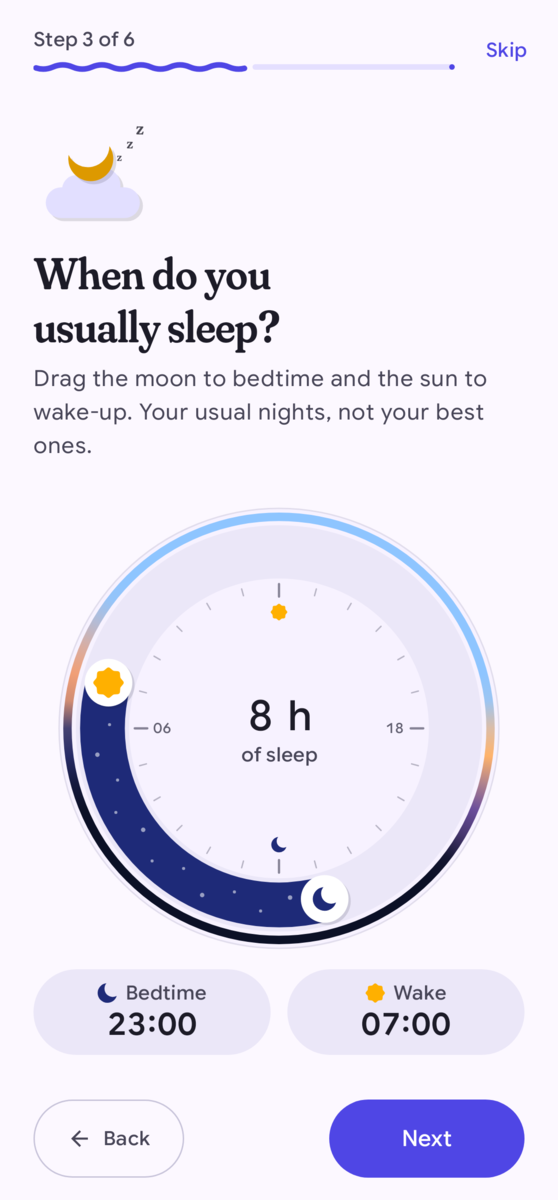
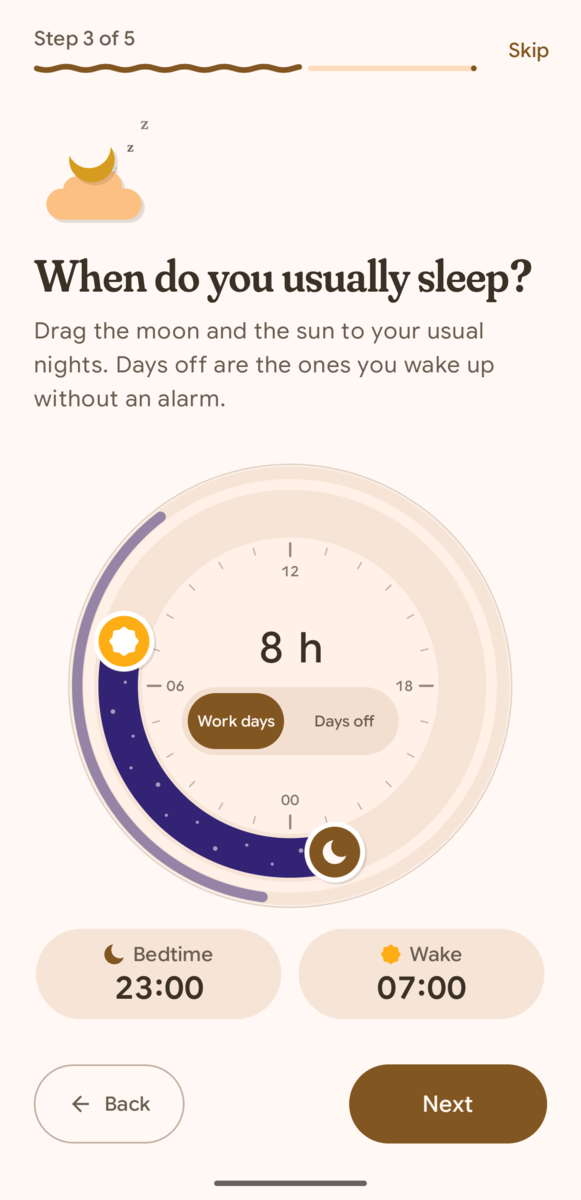
Device-captured user-guide images; toggle labels never wrap; exact timing row scrolls into view

diff --git a/feature/onboarding/src/main/kotlin/dev/sebastiano/clockblocker/opus/feature/onboarding/OnboardingSteps.kt b/feature/onboarding/src/main/kotlin/dev/sebastiano/clockblocker/opus/feature/onboarding/OnboardingSteps.kt
@@ -2,6 +2,7 @@ package dev.sebastiano.clockblocker.opus.feature.onboarding
 
 import androidx.compose.animation.AnimatedContent
 import androidx.compose.animation.AnimatedVisibility
+import androidx.compose.animation.EnterExitState
 import androidx.compose.animation.expandVertically
 import androidx.compose.animation.fadeIn
 import androidx.compose.animation.fadeOut
@@ -533,6 +534,10 @@ private fun RemindersControls(state: OnboardingUiState, actions: OnboardingActio
             enter = expandVertically(motion.containerSpatial()) + fadeIn(motion.containerSpatial()),
             exit = shrinkVertically(motion.containerSpatial()) + fadeOut(motion.containerSpatial()),
         ) {
+            // The row appears under the card, often below the fold: bring it into view once it has grown in.
+            val exactRow = remember { BringIntoViewRequester() }
+            val grown = transition.currentState == EnterExitState.Visible && !transition.isRunning
+            LaunchedEffect(grown) { if (grown) exactRow.bringIntoView() }
             PermissionRow(
                 title = stringResource(R.string.reminders_exact),
                 description = stringResource(R.string.reminders_exact_description),
@@ -541,7 +546,7 @@ private fun RemindersControls(state: OnboardingUiState, actions: OnboardingActio
                 onAction = actions::openExactAlarmSettings,
                 shape = segmentedShape(1, 2),
                 tag = RemindersTags.ExactAlarm,
-                modifier = Modifier.testTag(RemindersTags.ExactAlarmRow),
+                modifier = Modifier.bringIntoViewRequester(exactRow).testTag(RemindersTags.ExactAlarmRow),
             )
         }
     }

diff --git a/feature/onboarding/src/main/kotlin/dev/sebastiano/clockblocker/opus/feature/onboarding/profile/SleepDial.kt b/feature/onboarding/src/main/kotlin/dev/sebastiano/clockblocker/opus/feature/onboarding/profile/SleepDial.kt
@@ -684,7 +684,8 @@ private fun ScheduleToggle(selected: SleepSchedule, onSelect: (SleepSchedule) ->
     BoxWithConstraints(modifier) {
         // Both labels share one size, fitted to the wider of the two in half the toggle (minus the tab's paddings).
         val labelStyle = MaterialTheme.typography.labelLarge
-        val segmentPx = with(density) { (maxWidth / 2 - ToggleInset * 2 - ToggleLabelPadding * 2).roundToPx() }
+        // A dp of slack: a label fitted to the exact pixel can still wrap at its space on some fonts.
+        val segmentPx = with(density) { (maxWidth / 2 - ToggleInset * 2 - ToggleLabelPadding * 2 - 2.dp).roundToPx() }
         val style = remember(measurer, labelStyle, labels, segmentPx) { measurer.fitted(labelStyle, labels.values.toList(), segmentPx, 8.sp) }
         Row(Modifier.fillMaxWidth().clip(CircleShape).background(colors.surfaceContainerHighest).selectableGroup()) {
             SleepSchedule.entries.forEach { option ->
@@ -707,6 +708,7 @@ private fun ScheduleToggle(selected: SleepSchedule, onSelect: (SleepSchedule) ->
                         style = style.copy(textAlign = TextAlign.Center),
                         color = { ink },
                         maxLines = 1,
+                        softWrap = false,
                         modifier = Modifier.padding(horizontal = ToggleLabelPadding, vertical = 8.dp),
                     )
                 }

diff --git a/user-guide/getting-started.md b/user-guide/getting-started.md
@@ -37,7 +37,7 @@ that city, or still on home time. See [Starting away from home](planning-a-trip.
 
 ### 3. When do you usually sleep?
 
-<img src="images/sleep.png" alt="Step 3 of 5, When do you usually sleep: a round dial with a moon at bedtime and a sun at wake-up on the inner ring, and a thinner, paler ring outside it for the other schedule. In the middle, 7 h 45 m and a Work days | Days off switch. Below the dial, two buttons: Bedtime 23:30 and Wake 07:15." width="280" />
+<img src="images/sleep.png" alt="Step 3 of 5, When do you usually sleep: a round dial with a moon at 23:00 and a sun at 07:00 on the inner ring, and a thinner, paler ring outside it for days off, from about half past midnight to half past nine. In the middle, 8 h and a Work days | Days off switch with Work days selected. Below the dial, two buttons: Bedtime 23:00 and Wake 07:00." width="280" />
 
 Drag the moon to your usual bedtime and the sun to your usual wake-up time. The dial holds two schedules:
 
@@ -55,7 +55,7 @@ of sleep.
 
 #### Your chronotype
 
-<img src="images/chronotype.png" alt="Step 3 of 5, still: a small sky with the sun low on its path, From your sleep, Morning person, Mornings are your best hours, the time your nights off are centred on, and a Doesn't sound like me link." width="280" />
+<img src="images/chronotype.png" alt="Still step 3 of 5: a small sky with the sun high on its path, From your sleep, Somewhere in between, Neither a lark nor an owl. Most people are here. Below: Allowing for catch-up sleep, your nights off are centred on 04:38, and a Doesn't sound like me link." width="280" />
 
 When you tap **Next**, the app works out your chronotype from those two schedules: Early bird, Morning person,
 Somewhere in between, Evening person or Night owl. It uses the middle of your nights off, allowing for catch-up sleep
@@ -96,7 +96,7 @@ clock earlier. Melatonin is a medicine in many countries. Check with a doctor or
 
 ### 5. Reminders that actually arrive
 
-<img src="images/reminders.png" alt="Step 5 of 5, Reminders that actually arrive: a sample reminder as it looks in the notification shade, See bright light with how long is left and what comes next, then an Allow notifications button. At the bottom, Back and Maybe later." width="280" />
+<img src="images/reminders.png" alt="Step 5 of 5, Reminders that actually arrive: a sample reminder as it looks in the notification shade, See bright light until 05:00 with a progress bar and 2h 23m left, Next: Avoid light at 05:30, and the Done, Can't do this and Snooze 15 min actions. Under it, an Allow notifications button. At the bottom, Back and Maybe later." width="280" />
 
 The app can remind you just before each change in your plan. It never sends a reminder while you're meant to be
 asleep, except the one that wakes you.
